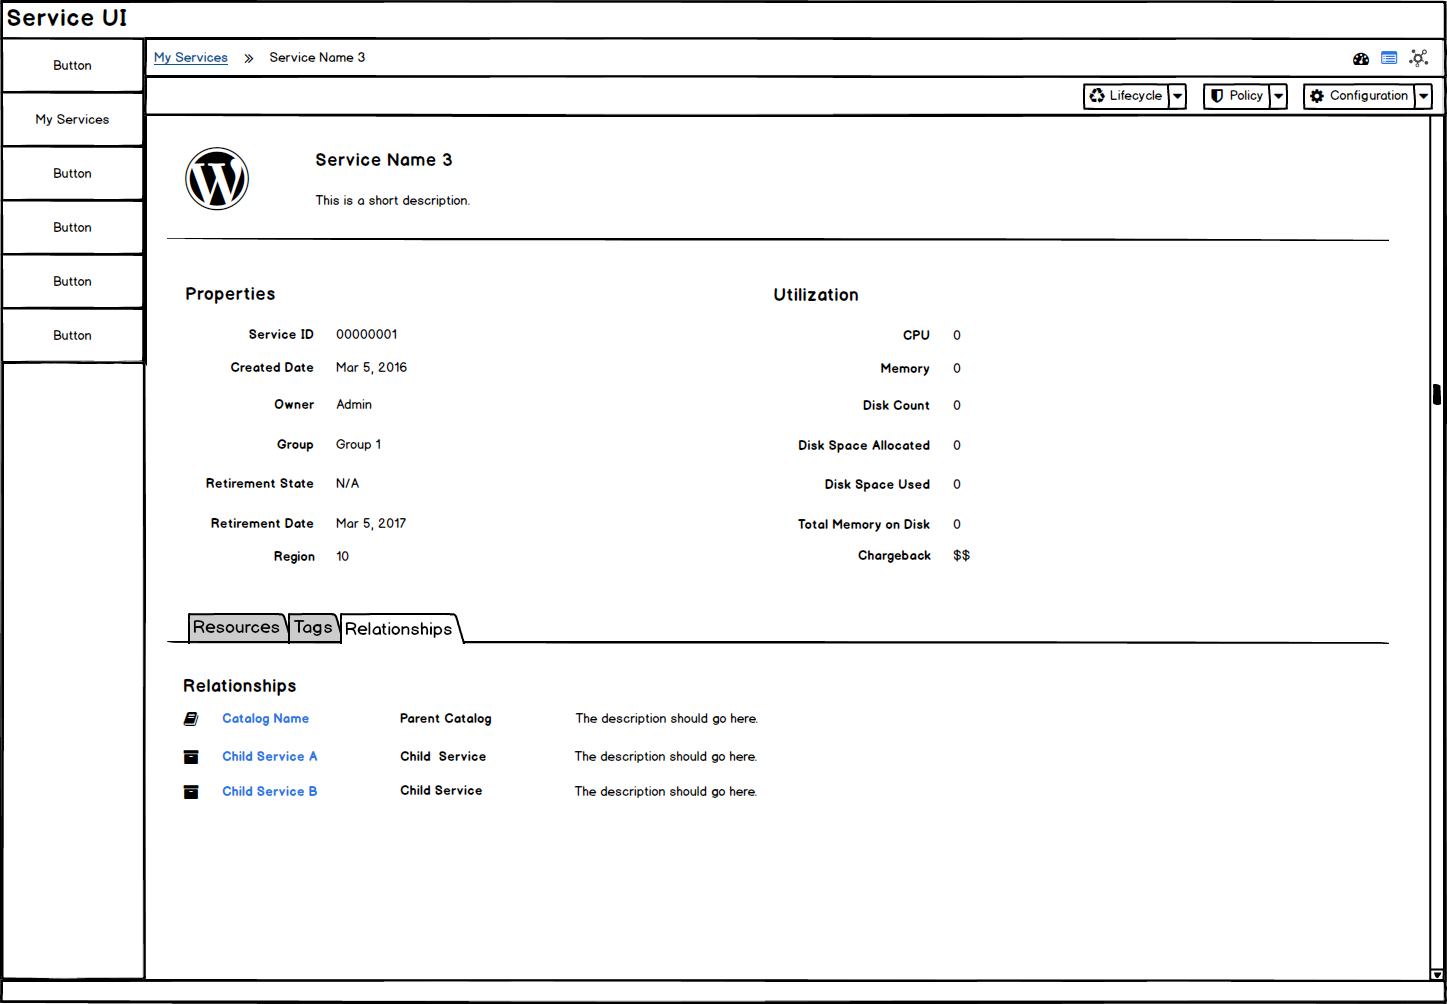
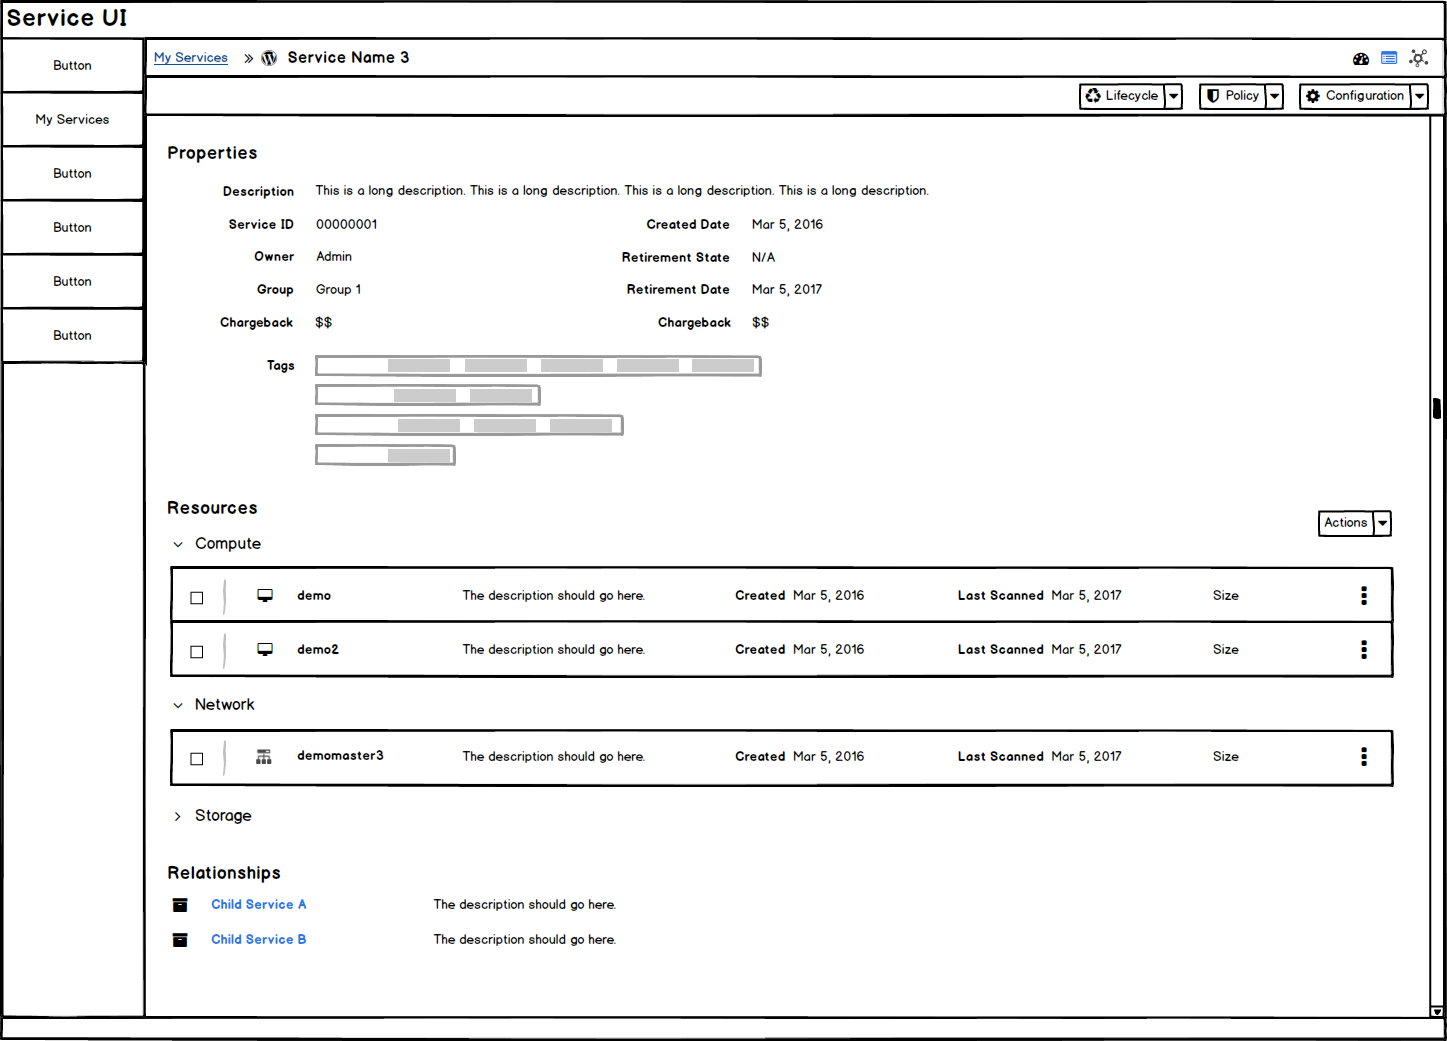
Updating Service Details screenshot

diff --git a/UX/ui-service/MyServices/design.md b/UX/ui-service/MyServices/design.md
@@ -21,16 +21,18 @@
 * Actions available for Child Services are TBD.
 * Child Services are also links and will bring the user to the child service details page.
 
-### Service - Details
+### Service Details (drilldown page)
 * When a single service is chosen, the service details page will be loaded.
 * The breadcrumbs will change to show My Services as a link back to the List View.
 * The service details will include the following view types: summary view, utilization dashboard, and topology view. The default should be the Summary View.
 
 #### Service - Summary View
 ![Image of Detail View for a Service.](img/Services-DetailView.png)
-* The bottom portion of the Summary View will have a tabbed format with a default on the Resources tab.
-* There will be a tab for Relationships, where the child services should be listed.
+* The summary view will include the properties, resources, and relationships.
 * Child Services are links and will bring the user to the child detail page.
+1. Properties:
+2. Resources:
+3. Relationships:
 
 #### Child Service - Summary View
 ![Image of Detail View for a Child Service.](img/Services-ChildDetailView.png)
